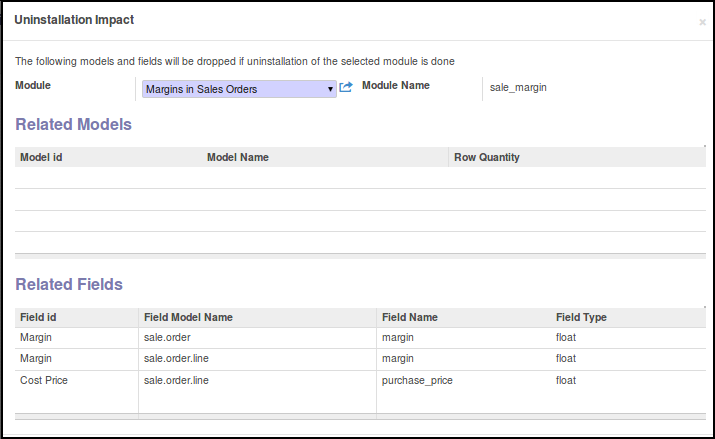
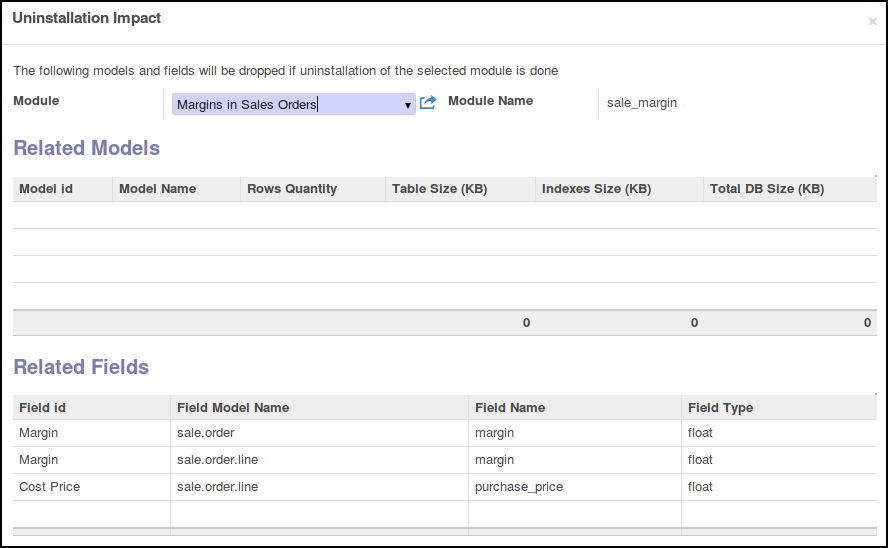
[ADD] database size information + [IMP] various. cortesy @jcdrubay

diff --git a/module_uninstall_check/wizards/wizard_module_uninstall_line.py b/module_uninstall_check/wizards/wizard_module_uninstall_line.py
@@ -13,24 +13,55 @@ _logger = logging.getLogger(__name__)
 class WizardModuleUninstallLine(models.TransientModel):
     _name = 'wizard.module.uninstall.line'
 
-    TYPE_SELECTION = [
+    LINE_TYPE_SELECTION = [
         ('model', 'Model'),
         ('field', 'Field'),
+    ]
+
+    DB_TYPE_SELECTION = [
+        ('', 'Unknown Type'),
+        ('r', 'Ordinary Table'),
+        ('i', 'Index'),
+        ('S', 'Sequence'),
+        ('v', 'view'),
+        ('c', 'Composite Type'),
+        ('t', 'TOAST table'),
     ]
 
     wizard_id = fields.Many2one(
         comodel_name='wizard.module.uninstall', required=True)
 
-    type = fields.Selection(
-        selection=TYPE_SELECTION, required=True)
+    line_type = fields.Selection(
+        selection=LINE_TYPE_SELECTION, required=True)
 
     model_id = fields.Many2one(comodel_name='ir.model', readonly=True)
 
     model_name = fields.Char(
         string='Model Name', related='model_id.model', readonly=True)
 
+    table_size = fields.Integer(
+        string='Table Size (KB)', compute='_compute_database',
+        multi='database', store=True)
+
+    index_size = fields.Integer(
+        string='Indexes Size (KB)', compute='_compute_database',
+        multi='database', store=True)
+
+    db_type = fields.Selection(
+        selection=DB_TYPE_SELECTION, compute='_compute_database',
+        multi='database', store=True)
+
+    db_size = fields.Integer(
+        string='Total DB Size (KB)', compute='_compute_database',
+        multi='database', store=True)
+
     model_row_qty = fields.Integer(
-        string='Row Quantity', compute='_compute_model_row_qty')
+        string='Rows Quantity', compute='_compute_database', multi='database',
+        store=True,
+        help="The approximate value of the number of records in the database,"
+        " based on the PostgreSQL column 'reltuples'.\n You should reindex"
+        " your database, to have a more precise value\n\n"
+        " 'REINDEX database your_database_name;'")
 
     field_id = fields.Many2one(comodel_name='ir.model.fields', readonly=True)
 
@@ -45,25 +76,38 @@ class WizardModuleUninstallLine(models.TransientModel):
         readonly=True)
 
     @api.multi
-    @api.depends('model_id')
-    def _compute_model_row_qty(self):
+    @api.depends('model_id', 'line_type')
+    def _compute_database(self):
         table_names = []
         for line in self.filtered(lambda x: x.model_id):
             model_obj = self.env[line.model_id.model]
             table_names.append(model_obj._table)
 
-        req = "SELECT relname AS table_name, reltuples AS row_qty"\
-            " FROM pg_class C"\
-            " LEFT JOIN pg_namespace N ON (N.oid = C.relnamespace)"\
-            " WHERE "\
-            " nspname NOT IN ('pg_catalog', 'information_schema')"\
-            " AND relkind='r'"\
-            " and relname in %s;"
-
+        # Get Relation Informations
+        req = (
+            "SELECT"
+            "   table_name,"
+            "   row_qty,"
+            "   db_type,"
+            "   pg_table_size(table_name::regclass::oid) AS table_size,"
+            "   pg_indexes_size(table_name::regclass::oid) AS index_size,"
+            "   pg_total_relation_size(table_name::regclass::oid) AS db_size"
+            " FROM ("
+            "   SELECT"
+            "       relname AS table_name,"
+            "       reltuples AS row_qty,"
+            "       relkind as db_type"
+            "   FROM pg_class"
+            "   WHERE relname IN %s) AS tmp;"
+        )
         self.env.cr.execute(req, (tuple(table_names),))
         res = self.env.cr.fetchall()
-        table_res = {x[0]: x[1] for x in res}
-
+        table_res = {x[0]: (x[1], x[2], x[3], x[4], x[5]) for x in res}
         for line in self:
             model_obj = self.env[line.model_id.model]
-            line.model_row_qty = table_res.get(model_obj._table, 0)
+            res = table_res.get(model_obj._table, (0, '', 0, 0, 0))
+            line.model_row_qty = res[0]
+            line.db_type = res[1]
+            line.table_size = res[2] / 1024
+            line.index_size = res[3] / 1024
+            line.db_size = res[4] / 1024

diff --git a/module_uninstall_check/wizards/wizard_module_uninstall.py b/module_uninstall_check/wizards/wizard_module_uninstall.py
@@ -36,11 +36,11 @@ class WizardModuleUninstall(models.TransientModel):
 
     model_line_ids = fields.One2many(
         comodel_name='wizard.module.uninstall.line', readonly=True,
-        inverse_name='wizard_id', domain=[('type', '=', 'model')])
+        inverse_name='wizard_id', domain=[('line_type', '=', 'model')])
 
     field_line_ids = fields.One2many(
         comodel_name='wizard.module.uninstall.line', readonly=True,
-        inverse_name='wizard_id', domain=[('type', '=', 'field')])
+        inverse_name='wizard_id', domain=[('line_type', '=', 'field')])
 
     # Compute Section
     @api.multi
@@ -67,17 +67,17 @@ class WizardModuleUninstall(models.TransientModel):
             wizard.model_line_ids = False
             wizard.field_line_ids = False
 
-        for wizard in self.filtered(lambda x: x.module_id):
+        for wizard in self:
             model_ids = []
             module_names = wizard.module_ids.mapped('name')\
                 + [wizard.module_id.name]
             # Get Models
             models_data = []
-            model_xml_ids = model_data_obj.search([
+            all_model_ids = model_data_obj.search([
                 ('module', 'in', module_names),
                 ('model', '=', 'ir.model')]).mapped('res_id')
-            model_xml_ids = list(set(model_xml_ids))
-            for model in model_obj.browse(model_xml_ids).filtered(
+            all_model_ids = list(set(all_model_ids))
+            for model in model_obj.browse(all_model_ids).filtered(
                     lambda x: not x.osv_memory):
                 # Filter models that are not associated to other modules,
                 # and that will be removed, if the selected module is
@@ -88,7 +88,7 @@ class WizardModuleUninstall(models.TransientModel):
                     ('res_id', '=', model.id)])
                 if not len(other_declarations):
                     models_data.append((0, 0, {
-                        'type': 'model',
+                        'line_type': 'model',
                         'model_id': model.id,
                     }))
                     model_ids.append(model.id)
@@ -96,11 +96,11 @@ class WizardModuleUninstall(models.TransientModel):
 
             # Get Fields
             fields_data = []
-            field_xml_ids = model_data_obj.search([
+            all_field_ids = model_data_obj.search([
                 ('module', 'in', module_names),
                 ('model', '=', 'ir.model.fields')]).mapped('res_id')
             for field in field_obj.search([
-                    ('id', 'in', field_xml_ids),
+                    ('id', 'in', all_field_ids),
                     ('model_id', 'not in', model_ids),
                     ('ttype', 'not in', ['one2many'])],
                     order='model_id, name'):
@@ -111,7 +111,7 @@ class WizardModuleUninstall(models.TransientModel):
                 if not len(other_declarations)\
                         and not field.model_id.osv_memory:
                     fields_data.append((0, 0, {
-                        'type': 'field',
+                        'line_type': 'field',
                         'field_id': field.id,
                     }))
             wizard.field_line_ids = fields_data

diff --git a/module_uninstall_check/__openerp__.py b/module_uninstall_check/__openerp__.py
@@ -13,9 +13,9 @@
         'base',
     ],
     "data": [
-        'wizards/view_wizard_module_uninstall.xml',
+        'wizards/wizard_module_uninstall.xml',
         'wizards/action.xml',
-        'views/view_ir_module_module.xml',
+        'views/ir_module_module.xml',
     ],
     "demo": [
         'demo/res_groups.xml',

diff --git a/module_uninstall_check/README.rst b/module_uninstall_check/README.rst
@@ -51,6 +51,8 @@ Known issues / Roadmap
 This module could implement such feature, adding extra feature on wizard lines,
 deleting or renaming xml ids.
 
+* For the time being, wizard displays size used for models in database. It
+  could be interesting to know the space released by the deletion of a column.
 
 Bug Tracker
 ===========
